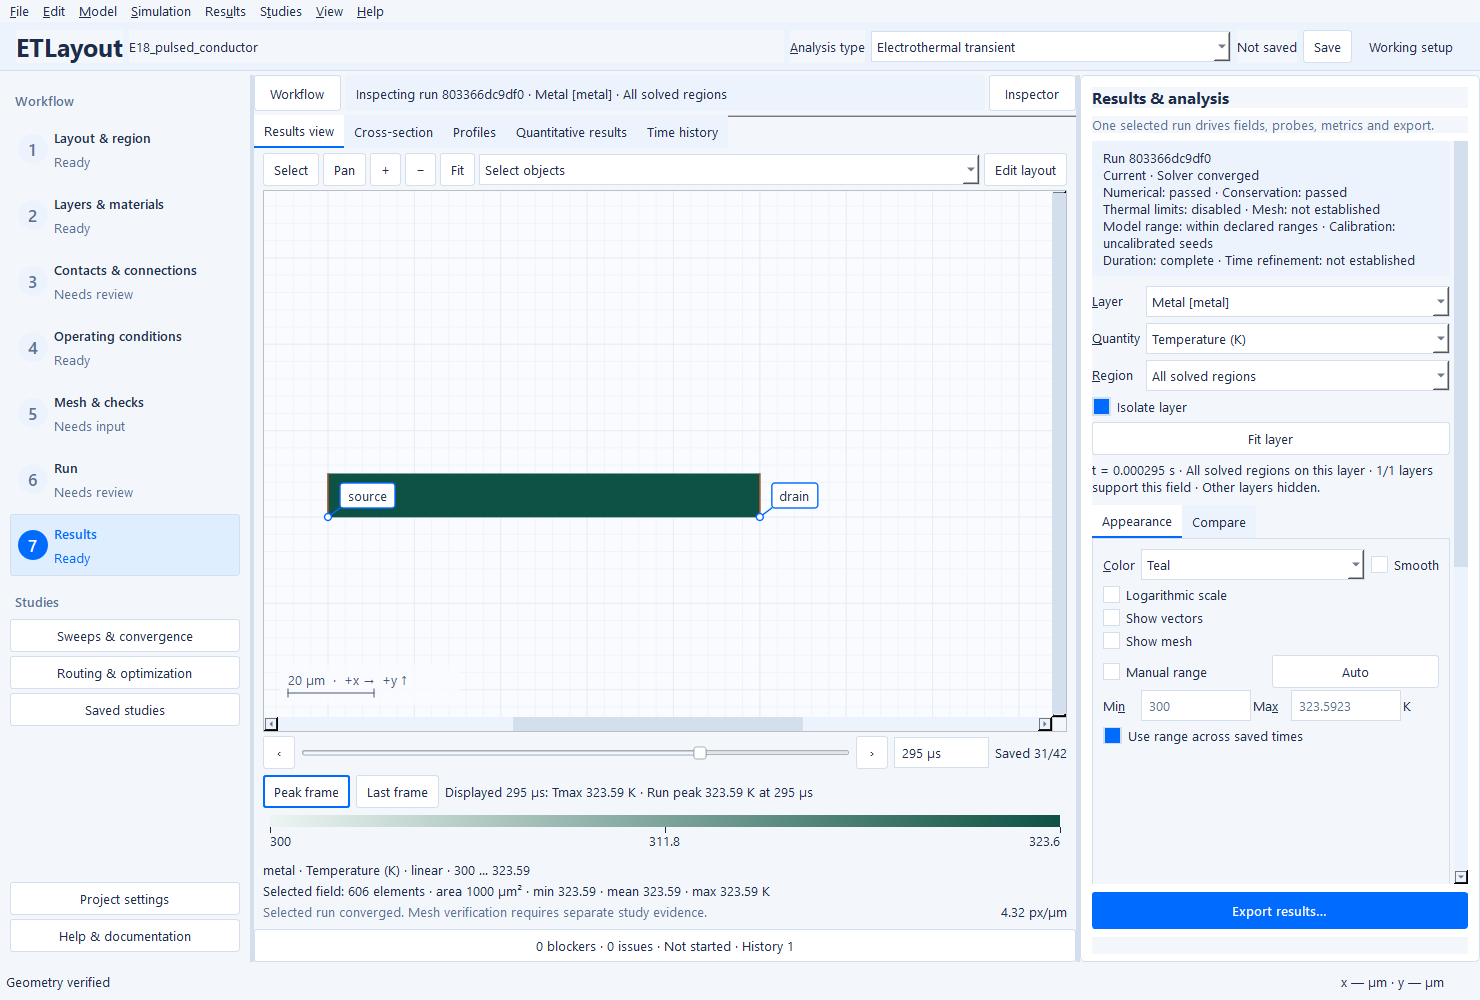
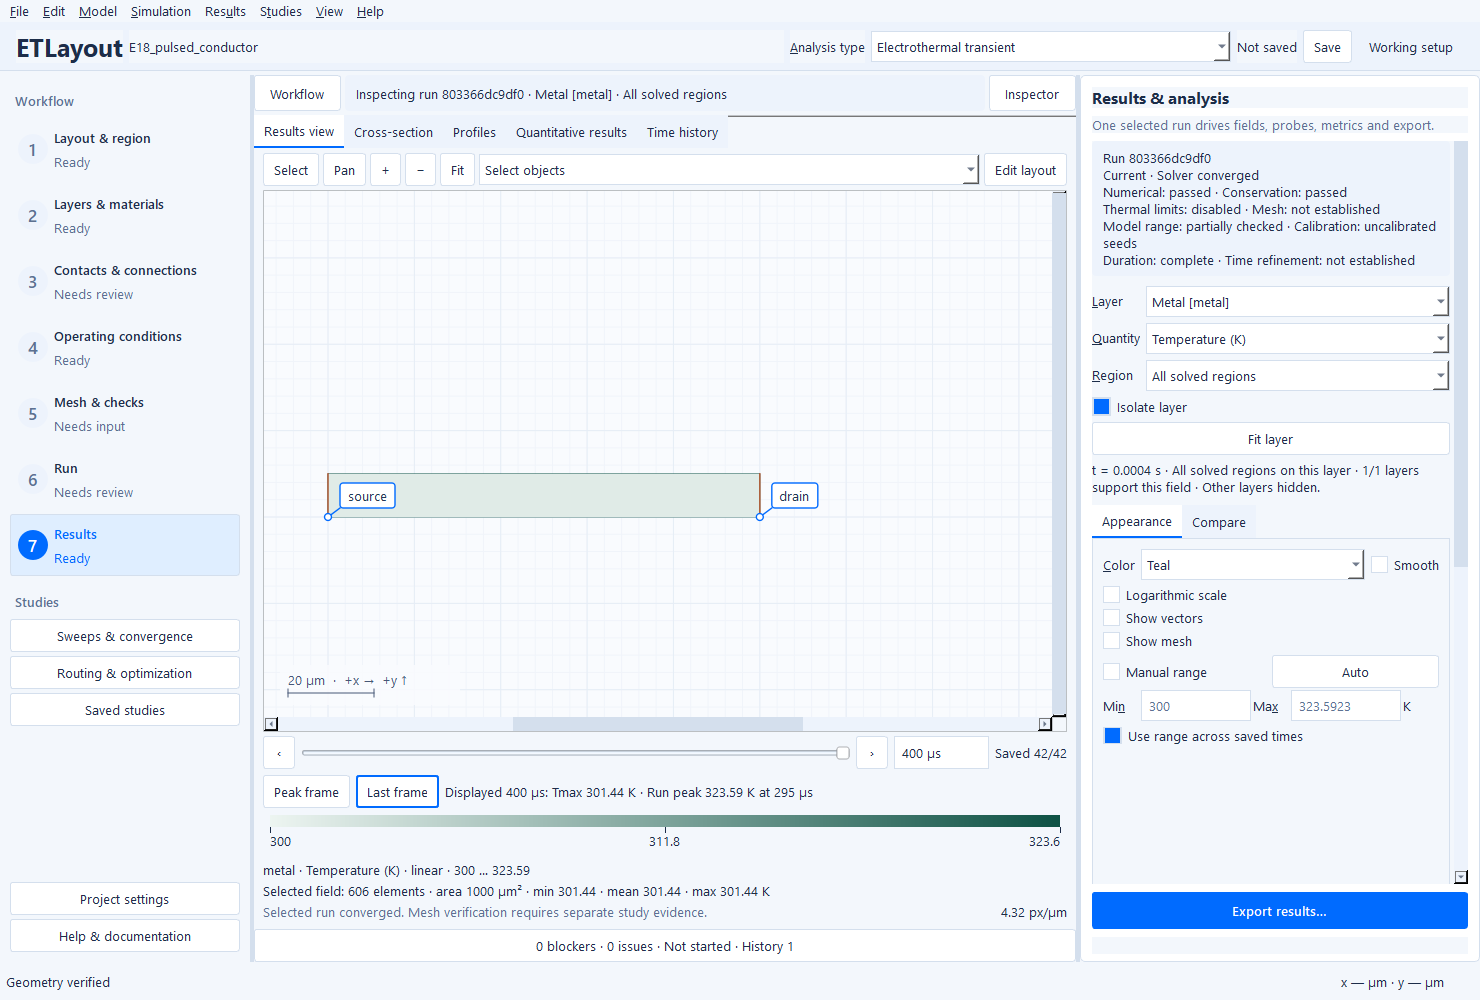
Preserve whole-run thermal failures in on-demand frame inspection

diff --git a/src/etlayout/gui/main_window.py b/src/etlayout/gui/main_window.py
@@ -6,7 +6,7 @@ import json
 import logging
 import uuid
 from copy import deepcopy
-from dataclasses import asdict
+from dataclasses import asdict, replace
 from pathlib import Path
 from types import SimpleNamespace
 
@@ -2309,7 +2309,13 @@ class MainWindow(QMainWindow):
         self.time_navigation.set_frame_metrics(result.metrics)
         from etlayout.power.engineering import engineering_summary
         recorded = self.history_workflow.record
-        run_metrics = (recorded.metrics if recorded and recorded.times else self.result.metrics if self.result else result.metrics)
+        run_metrics = self.result.metrics if self.result else result.metrics
+        on_demand = bool(recorded and recorded.times and not (self.result and self.result.transient))
+        if on_demand:
+            run_metrics = dict(recorded.metrics)
+            compliance = self.history_workflow.store.thermal_compliance(recorded.run_id)
+            if compliance is not None:
+                run_metrics["thermal_limit_compliance"] = compliance
         completed = (self.result.transient.completed if self.result and self.result.transient else None)
         if completed is None and recorded and recorded.times:
             completed = recorded.transient_metadata.get("completed")
@@ -2317,9 +2323,11 @@ class MainWindow(QMainWindow):
         summary["view_context"] = self.engineering_context()
         self.engineering_panel.set_report(summary)
         run = self.result if self.result and self.result.transient else result
-        status = ("Transient run completed" if run.transient.completed else "TRANSIENT STOPPED BEFORE REQUESTED END" if run.converged else "TRANSIENT RUN INCOMPLETE") if run.transient else (
+        transient = bool(run.transient or on_demand)
+        numerical_converged = recorded.converged if on_demand else run.converged
+        status = ("Transient run completed" if completed else "TRANSIENT STOPPED BEFORE REQUESTED END" if numerical_converged else "TRANSIENT RUN INCOMPLETE") if transient else (
             "Converged" if result.converged else "NOT CONVERGED")
-        compliance = run.metrics.get("thermal_limit_compliance", {})
+        compliance = next(row["evidence"] for row in summary["axes"] if row["axis"] == "Temperature limits")
         thermal_text = ""
         if compliance.get("status") in {"failed", "unavailable"}:
             status = "FAILED — Maximum temperature exceeded" if compliance["status"] == "failed" else "FAILED — Temperature compliance unavailable"
@@ -2343,11 +2351,11 @@ class MainWindow(QMainWindow):
         self.result_status.style().polish(self.result_status)
         self.result_status.setText(
             ("ENGINEERING ATTENTION — " + "; ".join(concerns) + "\n" if concerns else "") + f"{status} · {len(result.mesh.triangles):,} triangles · "
-            f"{run.elapsed_seconds:.3f} s · configuration {result.configuration_hash[:12]}\n"
+            f"{recorded.elapsed_seconds if on_demand else run.elapsed_seconds:.3f} s · configuration {result.configuration_hash[:12]}\n"
             + (f"Selected transient snapshot: t = {result.metrics['time_s']:.9g} s. " if "time_s" in result.metrics else "")
             + thermal_text
             + "Select a field above; probe or draw a line profile. Peak current at sharp corners is mesh-sensitive.")
-        metrics = {**result.metrics, **{key: value for key, value in run.metrics.items() if key.startswith("transient_")}}
+        metrics = {**result.metrics, **{key: value for key, value in run_metrics.items() if key.startswith("transient_")}}
         scalar_metrics = [(key, value) for key, value in metrics.items() if isinstance(value, (int, float, str))]
         self.metrics_table.setRowCount(len(scalar_metrics))
         for row, (key, value) in enumerate(scalar_metrics):
@@ -2362,10 +2370,10 @@ class MainWindow(QMainWindow):
             if key in result.metrics:
                 headlines.append(f"{title}: {engineering(result.metrics[key], unit)}")
         current_ref = result.metrics.get("resistance_current_terminal", "")
-        if run.transient:
-            scope = "Resumed-segment peak" if run.metrics.get("transient_peak_scope") == "current_segment" else "Whole-run peak"
-            headlines.append(f"{scope}: {run.metrics['transient_peak_temperature']:.6g} K at {engineering(run.metrics['transient_peak_time'], 's')}")
-            if run.metrics.get("transient_energy_scope") == "cumulative_from_origin":
+        if transient and "transient_peak_temperature" in run_metrics:
+            scope = "Resumed-segment peak" if run_metrics.get("transient_peak_scope") == "current_segment" else "Whole-run peak"
+            headlines.append(f"{scope}: {run_metrics['transient_peak_temperature']:.6g} K at {engineering(run_metrics['transient_peak_time'], 's')}")
+            if run_metrics.get("transient_energy_scope") == "cumulative_from_origin":
                 headlines.append("Energy totals include the source run; fields cover the resumed segment.")
         self.key_metrics.setText("  ·  ".join(headlines) + "\nTerminal current is positive into the device."
                                  + (f" Resistance current reference: {current_ref}." if current_ref else ""))
@@ -2381,6 +2389,8 @@ class MainWindow(QMainWindow):
             for col, key in enumerate(keys, start=1):
                 self.terminals_table.setItem(row, col, QTableWidgetItem(engineering(values.get(key, "—"), {"current": "A", "voltage": "V", "power": "W"}.get(key, ""))))
         self.terminals_table.resizeColumnsToContents()
+        if on_demand:
+            run = replace(run, metrics=run_metrics, diagnostics=recorded.diagnostics_copy())
         annotations = annotated_result(result, self.project, run=run)
         self.show_diagnostics(annotations.diagnostics)
 

diff --git a/tests/test_engineering_workflow.py b/tests/test_engineering_workflow.py
@@ -174,3 +174,60 @@ def test_evidence_button_opens_real_unavailable_receipt_without_claiming_converg
     QTimer.singleShot(0, close_confidence)
     qtbot.mouseClick(window.engineering_panel.mesh_details, Qt.MouseButton.LeftButton)
     assert seen
+
+
+def test_on_demand_cooled_pulse_keeps_the_whole_run_temperature_failure(guided_window, qtbot, tmp_path, monkeypatch):
+    from test_lazy_history_store import track_arrays
+
+    from etlayout.examples import make_example
+    from etlayout.io.history_store import open_history_catalog
+    from etlayout.io.project import save_project
+    from etlayout.models import TemperatureLimit
+    from etlayout.simulation.runner import run_project
+
+    project = make_example("E18", tmp_path / "pulsed-input")
+    project.temperature_limits = [TemperatureLimit(maximum_temperature=310.)]
+    result = run_project(project)
+    assert result.converged and result.transient.completed
+    report = result.metrics["thermal_limit_compliance"]
+    assert report["status"] == "failed"
+    assert result.metrics["temperature_max"] < 310.
+    assert result.transient.snapshots[-1].metrics["thermal_limit_compliance"]["status"] == "passed"
+    source = tmp_path / "cooled-failed-run.etlayout"
+    save_project(project, source, result, archive_format=3)
+    arrays = track_arrays(monkeypatch)
+    with open_history_catalog(source) as catalog:
+        detached = catalog.thermal_compliance(catalog.current_run_id)
+        assert detached == report and arrays == []
+        detached["limits"].clear()
+        assert catalog.thermal_compliance(catalog.current_run_id) == report
+        assert catalog.stats.resident_bytes == catalog.stats.pinned_bytes == 0
+    window = guided_window
+    working, loaded = window.load_project_data(source, lazy=True)
+    window.set_project(working, loaded, source)
+    qtbot.waitUntil(lambda: window.result is not None or bool(window.guided.last_error_detail), timeout=30000)
+    assert window.result is not None, window.guided.last_error_detail
+    qtbot.waitUntil(lambda: not window.history_workflow.loader.jobs)
+    store = window.history_workflow.store
+    assert store.current_run_id == window.history_workflow.record.run_id
+    assert window.result.transient is None
+    assert window.result.metrics["thermal_limit_compliance"]["status"] == "passed"
+    def check_run_failure():
+        axis = next(row for row in window.engineering_panel.report["axes"] if row["axis"] == "Temperature limits")
+        assert axis["status"] == "failed" and axis["evidence"] == report
+        assert "Maximum temperature exceeded" in window.result_status.text()
+        assert "Whole-run peak" in window.key_metrics.text()
+        assert window.engineering_panel.report["run_peak_temperature_K"] == result.metrics["transient_peak_temperature"]
+    check_run_failure()
+    window.time_navigation.slider.setValue(0)
+    qtbot.waitUntil(lambda: not window.history_workflow.loader.jobs)
+    assert window.result.metrics["time_s"] == 0.
+    check_run_failure()
+    qtbot.mouseClick(window.time_navigation.last_button, Qt.MouseButton.LeftButton)
+    qtbot.waitUntil(lambda: not window.history_workflow.loader.jobs)
+    assert window.result.metrics["time_s"] == result.transient.times[-1]
+    check_run_failure()
+    window.history_workflow.full("trace")
+    qtbot.waitUntil(lambda: not window.history_workflow.loader.jobs)
+    assert window.result.transient is not None
+    check_run_failure()

diff --git a/src/etlayout/io/archive_v3.py b/src/etlayout/io/archive_v3.py
@@ -1011,6 +1011,35 @@ class ArchiveV3Reader:
         result._storage_descriptor = self._records[run_id]["descriptor"]["$ref"]
         return result
 
+    def thermal_compliance(self, run_id):
+        """Detached outer-run report from verified metadata; no array payload read.
+
+        The catalog already checks/caches this bounded metadata graph. Retained
+        frames hold per-state checks, which cannot replace the accepted-run peak.
+        """
+        if run_id in self._errors:
+            raise SimulationError(self._errors[run_id])
+        descriptor = self._descriptor(run_id)
+        metadata = self._metadata(descriptor["metadata"], _CATALOG, None)
+        report = metadata["metrics"].get("thermal_limit_compliance")
+        if report is None:
+            return None
+        def plain(value):
+            if value is None or type(value) in (str, bool, int):
+                return True
+            if type(value) is float:
+                return math.isfinite(value)
+            if isinstance(value, list):
+                return all(plain(item) for item in value)
+            if isinstance(value, dict):
+                return all(isinstance(key, str) and plain(item) for key, item in value.items())
+            # In particular, reject catalog NumPy sentinels. This accessor never
+            # loads an array to turn unsupported evidence into an acceptance.
+            return False
+        if not isinstance(report, dict) or not plain(report):
+            raise SimulationError("Stored thermal compliance must contain finite plain metadata")
+        return deepcopy(report)
+
     def transient_metadata(self, run_id):
         """Explicit row metadata access; no mesh/frame array is loaded."""
         if run_id in self._errors:

diff --git a/src/etlayout/power/engineering.py b/src/etlayout/power/engineering.py
@@ -38,7 +38,11 @@ def engineering_summary(result, *, run_metrics=None, completed=None):
     axes.append({"axis": "Conservation", "status": "passed" if balances and all(row["passed"] for row in balances)
                  else "failed" if balances else "unavailable", "detail": "Displayed-state residuals against recorded solver criteria.",
                  "checks": balances})
-    compliance = run.get("thermal_limit_compliance", metrics.get("thermal_limit_compliance", {}))
+    compliance = run.get("thermal_limit_compliance")
+    if not isinstance(compliance, dict):
+        configured = any(limit.enabled for limit in project.temperature_limits)
+        compliance = {"status": "unavailable" if configured or run.get("engineering_accepted") is False else "not_configured",
+                      "reason": "Whole-run temperature evidence not recorded/available; a cooled frame cannot establish run acceptance."}
     axes.append({"axis": "Temperature limits", "status": compliance.get("status", "not_configured"),
                  "detail": "Accepted physical states; limit compliance does not alter numerical convergence.",
                  "evidence": deepcopy(compliance)})

diff --git a/src/etlayout/io/history_store.py b/src/etlayout/io/history_store.py
@@ -96,6 +96,12 @@ class RunRecord:
     def __deepcopy__(self, memo):
         return self
 
+    def diagnostics_copy(self):
+        """Return validated ordinary diagnostics isolated from the immutable catalog."""
+        from etlayout.io.project import from_dict
+        from etlayout.models import Diagnostic
+        return [from_dict(Diagnostic, _thaw(item)) for item in self.diagnostics]
+
     def configuration_copy(self):
         """Return ordinary model-compatible JSON containers, isolated from the catalog."""
         return _thaw(self.configuration)
@@ -343,6 +349,12 @@ class ResultStore:
         with self._read_lock:
             self._checkpoint()
             return self._reader.resolve_project()
+
+    def thermal_compliance(self, run_id):
+        """Read a detached whole-run report without loading mesh/history arrays."""
+        with self._read_lock:
+            self._checkpoint()
+            return self._reader.thermal_compliance(run_id)
 
     def transient_metadata(self, run_id):
         """Read already-validated scalar step summaries without loading fields."""

diff --git a/tests/test_lazy_history_store.py b/tests/test_lazy_history_store.py
@@ -452,3 +452,16 @@ def test_forged_catalog_summaries_are_isolated_before_any_field_read(saved_histo
             store.acquire(store.current_run_id)
         with store.acquire(store.history[0].run_id) as valid:
             assert valid.fields["m"]["temperature"][0] == 310.
+
+
+@pytest.mark.parametrize("unsupported", [float("inf"), np.array([300., 400.])])
+def test_thermal_compliance_accessor_rejects_nonplain_evidence_without_array_reads(tmp_path, monkeypatch, unsupported):
+    project, result = small_result()
+    result.metrics["thermal_limit_compliance"] = {"status": "passed", "unsupported": unsupported}
+    path = tmp_path / "unsupported-report.etlayout"
+    save_project(project, path, result, archive_format=3)
+    arrays = track_arrays(monkeypatch)
+    with open_history_catalog(path) as store:
+        with pytest.raises(SimulationError, match="finite plain metadata"):
+            store.thermal_compliance(store.current_run_id)
+        assert arrays == [] and store.stats.resident_bytes == 0

diff --git a/tests/test_engineering_results.py b/tests/test_engineering_results.py
@@ -195,3 +195,14 @@ def test_used_via_material_law_scope_remains_explicitly_partial(expanded_nominal
     assert {row["property"] for row in axis["checked_properties"]} == {"bulk resistivity", "thermal conductivity"}
     assert any("Via/gap/through-plane" in row["reason"] for row in axis["unverified"])
     assert not axis["physical_qualification"]
+
+
+def test_a_frame_cannot_substitute_for_missing_whole_run_compliance(strip_solution):
+    project, result = strip_solution
+    project.temperature_limits = [TemperatureLimit(maximum_temperature=330.)]
+    result.configuration = project.to_dict()
+    result.metrics["thermal_limit_compliance"] = {"status": "passed", "limits": []}
+    report = engineering_summary(result, run_metrics={"engineering_accepted": False})
+    axis = next(row for row in report["axes"] if row["axis"] == "Temperature limits")
+    assert axis["status"] == "unavailable"
+    assert "cooled frame" in axis["evidence"]["reason"]

diff --git a/docs/engineering-results.md b/docs/engineering-results.md
@@ -32,6 +32,11 @@ The axis is partially checked when transient heat-capacity, semiconductor transp
 or used via/gap/through-plane law envelopes remain unestablished; checked laws and
 omissions are listed separately.
 
+On-demand transient inspection reads the authoritative outer-run temperature report
+from bounded, verified metadata without loading the other spatial fields. Selecting
+a cool or initial frame cannot erase an earlier failure. Missing whole-run evidence
+is unavailable, never replaced by a passing per-frame check.
+
 A property-range check does not validate HEMT high-field transport, fabricated
 corner radius, breakdown, switching or full 3D heat spreading. User-supplied data
 does not establish calibration. Reducing a solver tolerance does not supply any
